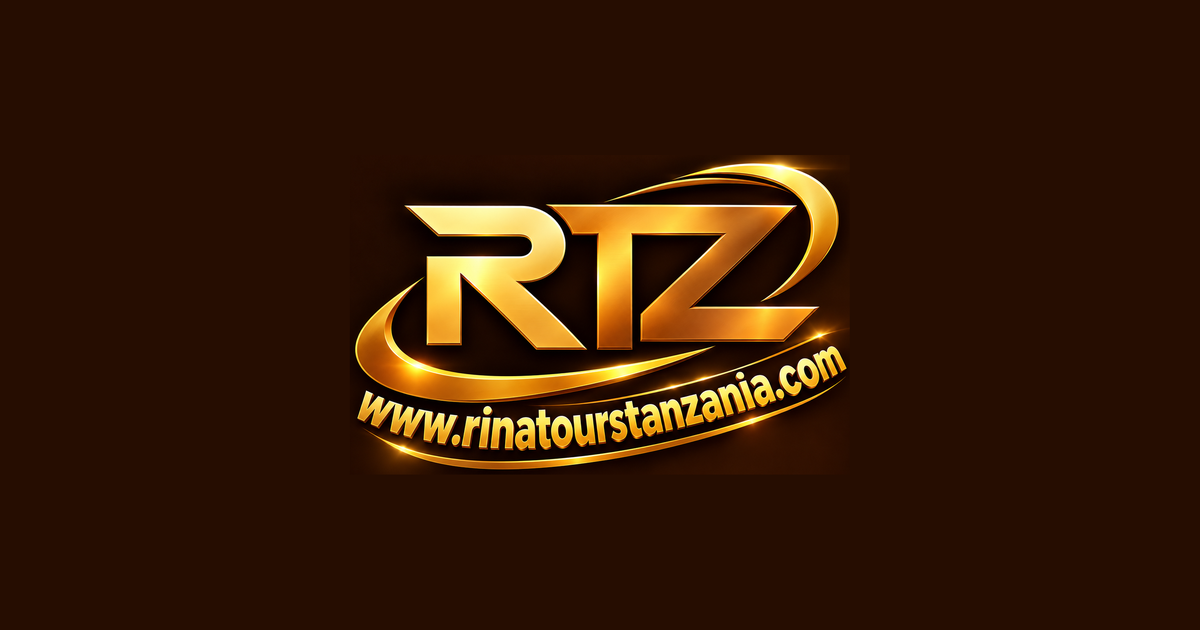
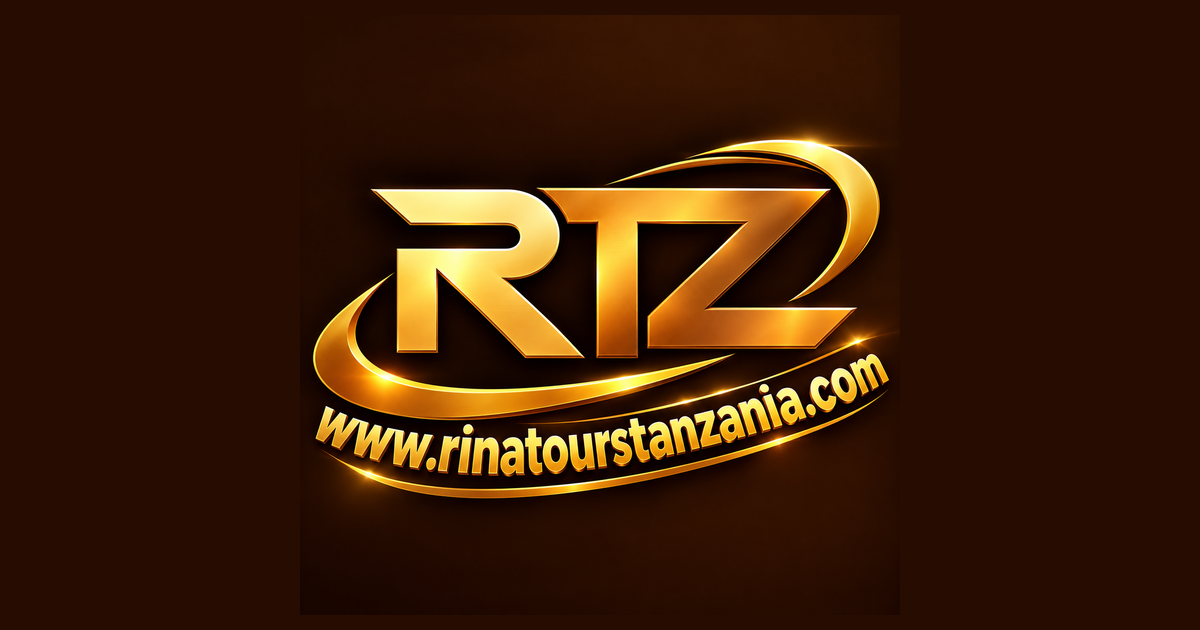
done

Changed region(s): [[0.2467, 0.181, 0.74, 0.8143]]

diff --git a/static/css/style.css b/static/css/style.css
@@ -115,18 +115,30 @@ h3 { font-size: 1.18rem; }
 .header-inner { display: flex; align-items: center; justify-content: space-between; gap: 20px; min-height: 78px; }
 
 .brand { text-decoration: none; display: flex; align-items: center; gap: 12px; }
-/* The RTZ badge. A rounded square rather than the circle the CSS mark used to
-   draw: the lettering runs nearly the full width of the artwork, so a circular
-   crop clipped the R and the Z. The logo's own background is the same cocoa
-   the circle was, so it still reads as part of the header. */
+/* The RTZ logo, shown whole and unaltered.
+
+   An earlier version cropped it down to the letters so it would read at 40px.
+   That made the badge legible and the logo wrong: the web address and the
+   flourish are part of the mark its owner drew, and trimming them is a brand
+   decision that is not ours to take. Shown complete, it needs room — hence 64px
+   here rather than the 40px the old CSS circle used, and a taller header to
+   carry it.
+
+   No border-radius: the artwork already has its own square edge. */
 .brand-mark {
-  width: 40px; height: 40px; flex: none;
-  border-radius: 9px;
-  object-fit: cover;
-  box-shadow: 0 0 0 1px var(--line);
+  width: 64px; height: 64px; flex: none;
+  border-radius: 6px;
 }
+.header-inner { min-height: 92px; }
+
 @media (max-width: 560px) {
-  .brand-mark { width: 34px; height: 34px; border-radius: 8px; }
+  /* Still 52px on a phone — big enough to read the letters. The tagline steps
+     aside to pay for it; the logo carries the name anyway. */
+  .brand-mark { width: 52px; height: 52px; }
+  .header-inner { min-height: 76px; }
+  .brand-tagline { display: none; }
+  .brand-name { font-size: 1.12rem; }
+  .brand { gap: 9px; }
 }
 .brand-text { display: flex; flex-direction: column; }
 .brand-name { font-family: var(--font-display); font-size: 1.3rem; color: var(--cocoa); line-height: 1.1; }

diff --git a/templates/base.html b/templates/base.html
@@ -24,9 +24,9 @@
 {% endblock %}
 <meta name="twitter:card" content="summary_large_image">
 
-<link rel="icon" type="image/png" sizes="32x32" href="{% static 'img/brand/rtz-mark-32.png' %}">
-<link rel="icon" type="image/png" sizes="192x192" href="{% static 'img/brand/rtz-mark-192.png' %}">
-<link rel="apple-touch-icon" href="{% static 'img/brand/rtz-mark-192.png' %}">
+<link rel="icon" type="image/png" sizes="32x32" href="{% static 'img/brand/rtz-logo-32.png' %}">
+<link rel="icon" type="image/png" sizes="180x180" href="{% static 'img/brand/rtz-logo-180.png' %}">
+<link rel="apple-touch-icon" href="{% static 'img/brand/rtz-logo-180.png' %}">
 <meta name="theme-color" content="#2E1B12">
 
 {% if GOOGLE_SITE_VERIFICATION %}<meta name="google-site-verification" content="{{ GOOGLE_SITE_VERIFICATION }}">{% endif %}
@@ -93,8 +93,8 @@
   <div class="container header-inner">
 
     <a class="brand" href="{% url 'tours:home' %}">
-      <img class="brand-mark" src="{% static 'img/brand/rtz-mark-96.png' %}"
-           alt="" width="40" height="40" fetchpriority="high" decoding="async">
+      <img class="brand-mark" src="{% static 'img/brand/rtz-logo-128.png' %}"
+           alt="" width="64" height="64" fetchpriority="high" decoding="async">
       <span class="brand-text">
         <span class="brand-name">{{ SITE_NAME }}</span>
         <span class="brand-tagline">{% if SITE_TAGLINE %}{{ SITE_TAGLINE }}{% else %}Tanzania, at your pace{% endif %}</span>

diff --git a/CLIENT-UPDATES.md b/CLIENT-UPDATES.md
@@ -330,40 +330,48 @@ python manage.py collectstatic --no-input
 
 ## 9. Logo ya RTZ
 
-Faili moja ya PNG 1254×1254, nimeitengenezea matumizi manne tofauti.
-
-### Kwa nini sikuitumia kama ilivyo
-
-Kwenye header logo ni **40×40px**. `www.rinatourstanzania.com` kwenye
-40px ni mstari wa dhahabu usiosomeka. Kwa hiyo nimeitenganisha:
+Logo inatumika **kama walivyoitoa** — imepunguzwa ukubwa tu, haijakatwa wala
+kubadilishwa.
 
 | Faili | Inatumika wapi |
 |---|---|
-| `rtz-mark-96.png` | Badge ya header — herufi RTZ tu, bila anwani |
-| `rtz-mark-32.png` | Favicon (tab ya browser) |
-| `rtz-mark-192.png` | Apple touch icon — mtu akiweka site kwenye home screen ya simu |
-| `og-image.png` | Picha ya link ikishirikiwa WhatsApp au Facebook |
+| `rtz-logo-128.png` | Header (64px desktop, 52px simu) |
+| `rtz-logo-32.png` | Favicon |
+| `rtz-logo-180.png` | Apple touch icon |
+| `og-image.png` | Link ikishirikiwa WhatsApp au Facebook |
 
-Ku-crop kulikuwa kwa hatua: swoosh ya dhahabu inaenea pande zote, kwa hiyo
-nikikata kwa mpaka wa rangi ya dhahabu herufi zinakuwa ndogo mno ndani ya
-mraba. Nimekata kwa **msongamano** wa dhahabu — herufi ni nene, swoosh ni
-utepe mwembamba — na kwa kuzuia eneo la anwani chini.
+### Nilichokosea mara ya kwanza
 
-### Badge sasa ni mraba wenye pembe za mviringo, si duara
+Nilikuwa nimeikata logo — nikaondoa `www.rinatourstanzania.com` na swoosh —
+ili herufi RTZ zisomeke kwenye badge ya 40px. Ilifanya badge isomeke na
+**ikaharibu logo**. Anwani ya tovuti na swoosh ni sehemu ya mchoro aliouchora
+mwenye brand. Kuamua kuziondoa ni uamuzi wa brand, si wa developer. Mwenye
+website alikuwa sahihi kulalamika.
 
-Herufi RTZ zinaenea karibu upana wote wa mchoro. Duara lingekata R na Z.
-Rangi ya nyuma ya logo ni ile ile ya kahawia (`--cocoa`) iliyokuwa kwenye
-duara la zamani, kwa hiyo bado inaonekana sehemu ya header.
+Njia sahihi ilikuwa kuipa logo nafasi, si kuikata ili itoshee nafasi ndogo.
+
+### Ukubwa
+
+Badge la zamani lilikuwa 40px — dogo mno kwa logo yenye maandishi ndani yake.
+Sasa:
+
+- **Desktop:** 64px, header imeongezwa hadi 92px ili iitoshee
+- **Simu:** 52px, header 76px. Tagline "Tanzania, at your pace" inajificha
+  kwenye simu ili kutoa nafasi — logo na jina zinatosha hapo
+
+Hakuna `border-radius` kubwa — mchoro tayari una ukingo wake wa mraba.
 
 ### Favicon na og:image hazikuwepo kabisa
 
-Site ilikuwa **haina favicon** — tab ya browser ilionyesha ikoni tupu. Na
-ilikuwa haina `og:image`, kwa hiyo link ikishirikiwa WhatsApp ilionekana
-kadi tupu. Kwa kuwa maulizo mengi ya Rina yanaanzia WhatsApp, hilo lilikuwa
-linagharimu.
+Site ilikuwa **haina favicon** — tab ya browser ilionyesha ikoni tupu — na
+haina `og:image`, kwa hiyo link ikishirikiwa WhatsApp ilionekana kadi tupu.
+Kwa kuwa maulizo mengi ya Rina yanaanzia WhatsApp, hilo lilikuwa linagharimu.
 
-Ukurasa wenye picha yake mwenyewe unaweza kubadilisha `og_image`; mwingine
-wote unarudi kwenye logo.
+Kwenye favicon ya 32px anwani ya tovuti haisomeki — ni logo nzima
+iliyopunguzwa, kwa hiyo herufi RTZ zinaonekana na anwani inakuwa mstari wa
+dhahabu. Hiyo ni kawaida kwa favicon yoyote yenye maandishi. Kama mwenye
+brand anapendelea ikoni ya herufi tu kwenye 32px, aniambie — lakini
+sitaikata tena bila yeye kusema.
 
 Baada ya copy:
 
